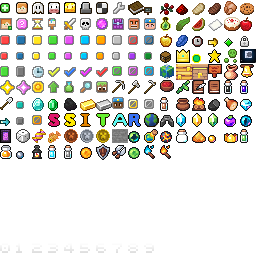
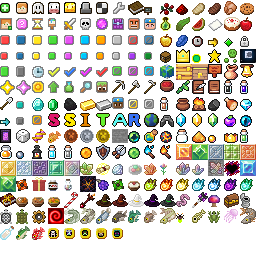
Update Unicode

diff --git a/README.md b/README.md
@@ -1,5 +1,10 @@
-# Unicode-Bedrock-New
- Unicode ใหม่สำหรับ Bedrock ลบเครดิต งดอัพเดทงดแจก มีไรใหม่ๆ ไม่แจกละ งอล ชิ ><
+# Unicode-Bedrock-New + The Hive
+
+ Unicode ใหม่สำหรับ Bedrock ลบเครดิต จะงดอัพเดท มีไรใหม่ๆ ไม่แจกละ งอล ชิ ><
+
+
+Unicode ส่วนนึงเป็นของ The Hive หากไม่อยากจะใช้ ผมจะลบในส่วนของ The Hive ให้ครับ
+
 
 เพื่อเป็นการขอบคุณโปรกด subscribe ช่อง | To thank the pro, press subscribe.
 https://www.youtube.com/channel/UC90J7ZO0uraH6kIjJ43v6UQ?view_as=subscriber
@@ -156,5 +161,66 @@ https://www.youtube.com/channel/UC90J7ZO0uraH6kIjJ43v6UQ?view_as=subscriber
 |             U146                   |     All      |          |  -      |![slime_ball](https://user-images.githubusercontent.com/12781303/100518454-2770ff80-31c4-11eb-811a-2eaa070b36dc.png)|
 |             U147                   |     All      |          |  -      |![soul_torch_item](https://user-images.githubusercontent.com/12781303/100518456-2a6bf000-31c4-11eb-87be-3a69abcdfa38.png)|
 |             U148                   |     All      |          |  -      |![torch_item](https://user-images.githubusercontent.com/12781303/100518460-2e980d80-31c4-11eb-97f7-dadae6299984.png)|
+|             U1                   |     All      |          |  -      |![!!lfsfa](https://user-images.githubusercontent.com/12781303/101279047-0dea3c00-37f2-11eb-8fbf-f3f47e58e1e3.png)|
+|             U1                   |     All      |          |  -      |![!emerald_block2](https://user-images.githubusercontent.com/12781303/101279053-193d6780-37f2-11eb-9a34-7c3de066cf70.png)|
+|             U1                   |     All      |          |  -      |![crystal_block_lightning](https://user-images.githubusercontent.com/12781303/101279143-d3cd6a00-37f2-11eb-87e0-b72682b28bce.png)|
+|             U1                   |     All      |          |  -      |![crystal_block_earth](https://user-images.githubusercontent.com/12781303/101279151-ddef6880-37f2-11eb-95a0-ef31f028adcd.png)|
+|             U1                   |     All      |          |  -      |![crystal_block_fire](https://user-images.githubusercontent.com/12781303/101279157-e8a9fd80-37f2-11eb-9166-618321a25ce0.png)|
+|             U1                   |     All      |          |  -      |![crystal_block_healing](https://user-images.githubusercontent.com/12781303/101279166-f19acf00-37f2-11eb-9c6c-ce8a96ede7dd.png)|
+|             U1                   |     All      |          |  -      |![crystal_block_ice](https://user-images.githubusercontent.com/12781303/101279170-f9f30a00-37f2-11eb-8080-3bfd606b320f.png)|
+|             U1                   |     All      |          |  -      |![crystal_block_necromancy](https://user-images.githubusercontent.com/12781303/101279176-05463580-37f3-11eb-999b-575f71d6ddec.png)|
+|             U1                   |     All      |          |  -      |![crystal_block_sorcery](https://user-images.githubusercontent.com/12781303/101279180-0d05da00-37f3-11eb-8def-fe71c893996a.png)|
+|             U1                   |     All      |          |  -      |![crystal_block](https://user-images.githubusercontent.com/12781303/101279188-1b53f600-37f3-11eb-961b-9d5aabd05154.png)|
+|             U1                   |     All      |          |  -      |![crystal_earth](https://user-images.githubusercontent.com/12781303/101279191-23139a80-37f3-11eb-9e2c-95e2f8bf21f3.png)|
+|             U1                   |     All      |          |  -      |![armour_upgrade](https://user-images.githubusercontent.com/12781303/101279206-3aeb1e80-37f3-11eb-8c2c-71d26a44c684.png)|
+|             U1                   |     All      |          |  -      |![astral_diamond](https://user-images.githubusercontent.com/12781303/101279219-548c6600-37f3-11eb-9ef0-b2234279a187.png)|
+|             U1                   |     All      |          |  -      |![cake_rice](https://user-images.githubusercontent.com/12781303/101279222-5bb37400-37f3-11eb-8e80-070cf0912ba3.png)|
+|             U1                   |     All      |          |  -      |![crystal_fire](https://user-images.githubusercontent.com/12781303/101279228-65d57280-37f3-11eb-9406-5a47c0813c3b.png)|
+|             U1                   |     All      |          |  -      |![crystal_flower](https://user-images.githubusercontent.com/12781303/101279235-71289e00-37f3-11eb-94eb-1b1e55203e18.png)|
+|             U1                   |     All      |          |  -      |![crystal_grand](https://user-images.githubusercontent.com/12781303/101279240-800f5080-37f3-11eb-9a95-b5ed0c51532c.png)|
+|             U1                   |     All      |          |  -      |![crystal_magic](https://user-images.githubusercontent.com/12781303/101279247-8ef60300-37f3-11eb-8efc-b209fcdb2bf5.png)|
+|             U1                   |     All      |          |  -      |![crystal_ore](https://user-images.githubusercontent.com/12781303/101279251-95847a80-37f3-11eb-93fe-6eb1a5643746.png)|
+|             U1                   |     All      |          |  -      |![curse_of_enfeeblement](https://user-images.githubusercontent.com/12781303/101279260-a2a16980-37f3-11eb-8ad2-7f80b6b2add3.png)|
+|             U1                   |     All      |          |  -      |![diamond_block](https://user-images.githubusercontent.com/12781303/101279265-ab923b00-37f3-11eb-8807-9d18d1ccf56e.png)|
+|             U1                   |     All      |          |  -      |![emerald_block](https://user-images.githubusercontent.com/12781303/101279280-c1076500-37f3-11eb-954a-0999d4df1a50.png)|
+|             U1                   |     All      |          |  -      |![firebomb](https://user-images.githubusercontent.com/12781303/101279287-ca90cd00-37f3-11eb-82fd-a5cef3327053.png)|
+|             U1                   |     All      |          |  -      |![gift](https://user-images.githubusercontent.com/12781303/101279292-d3819e80-37f3-11eb-97ed-915671baf643.png)|
+|             U1                   |     All      |          |  -      |![hazelnutchocolateitem](https://user-images.githubusercontent.com/12781303/101279297-da101600-37f3-11eb-891f-d6e72615ad56.png)|
+|             U1                   |     All      |          |  -      |![mana_flask_large](https://user-images.githubusercontent.com/12781303/101279301-ebf1b900-37f3-11eb-92c7-e5ae0b06ff1a.png)|
+|             U1                   |     All      |          |  -      |![obsidian_crust_2](https://user-images.githubusercontent.com/12781303/101279304-f57b2100-37f3-11eb-9932-42d689717d8b.png)|
+|             U1                   |     All      |          |  -      |![popped_chorus_fruit](https://user-images.githubusercontent.com/12781303/101279307-fdd35c00-37f3-11eb-97d4-7ca1c084c75d.png)|
+|             U1                   |     All      |          |  -      |![poison_bomb](https://user-images.githubusercontent.com/12781303/101279311-09268780-37f4-11eb-8a6e-402da6dbc140.png)|
+|             U1                   |     All      |          |  -      |![soup_rice](https://user-images.githubusercontent.com/12781303/101279322-1d6a8480-37f4-11eb-8581-13ce008d7583.png)|
+|             U1                   |     All      |          |  -      ||
+|             U1                   |     All      |          |  -      ||
+|             U1                   |     All      |          |  -      ||
+|             U1                   |     All      |          |  -      ||
+|             U1                   |     All      |          |  -      ||
+|             U1                   |     All      |          |  -      ||
+|             U1                   |     All      |          |  -      ||
+|             U1                   |     All      |          |  -      ||
+|             U1                   |     All      |          |  -      ||
+|             U1                   |     All      |          |  -      ||
+|             U1                   |     All      |          |  -      ||
+|             U1                   |     All      |          |  -      ||
+|             U1                   |     All      |          |  -      ||
+|             U1                   |     All      |          |  -      ||
+|             U1                   |     All      |          |  -      ||
+|             U1                   |     All      |          |  -      ||
+|             U1                   |     All      |          |  -      ||
+|             U1                   |     All      |          |  -      ||
+|             U1                   |     All      |          |  -      ||
+|             U1                   |     All      |          |  -      ||
+|             U1                   |     All      |          |  -      ||
+|             U1                   |     All      |          |  -      ||
+|             U1                   |     All      |          |  -      ||
+|             U1                   |     All      |          |  -      ||
+|             U1                   |     All      |          |  -      ||
+|             U1                   |     All      |          |  -      ||
+|             U1                   |     All      |          |  -      ||
+|             U1                   |     All      |          |  -      ||
+|             U1                   |     All      |          |  -      ||
+|             U1                   |     All      |          |  -      ||
+|             U1                   |     All      |          |  -      ||
 
 
